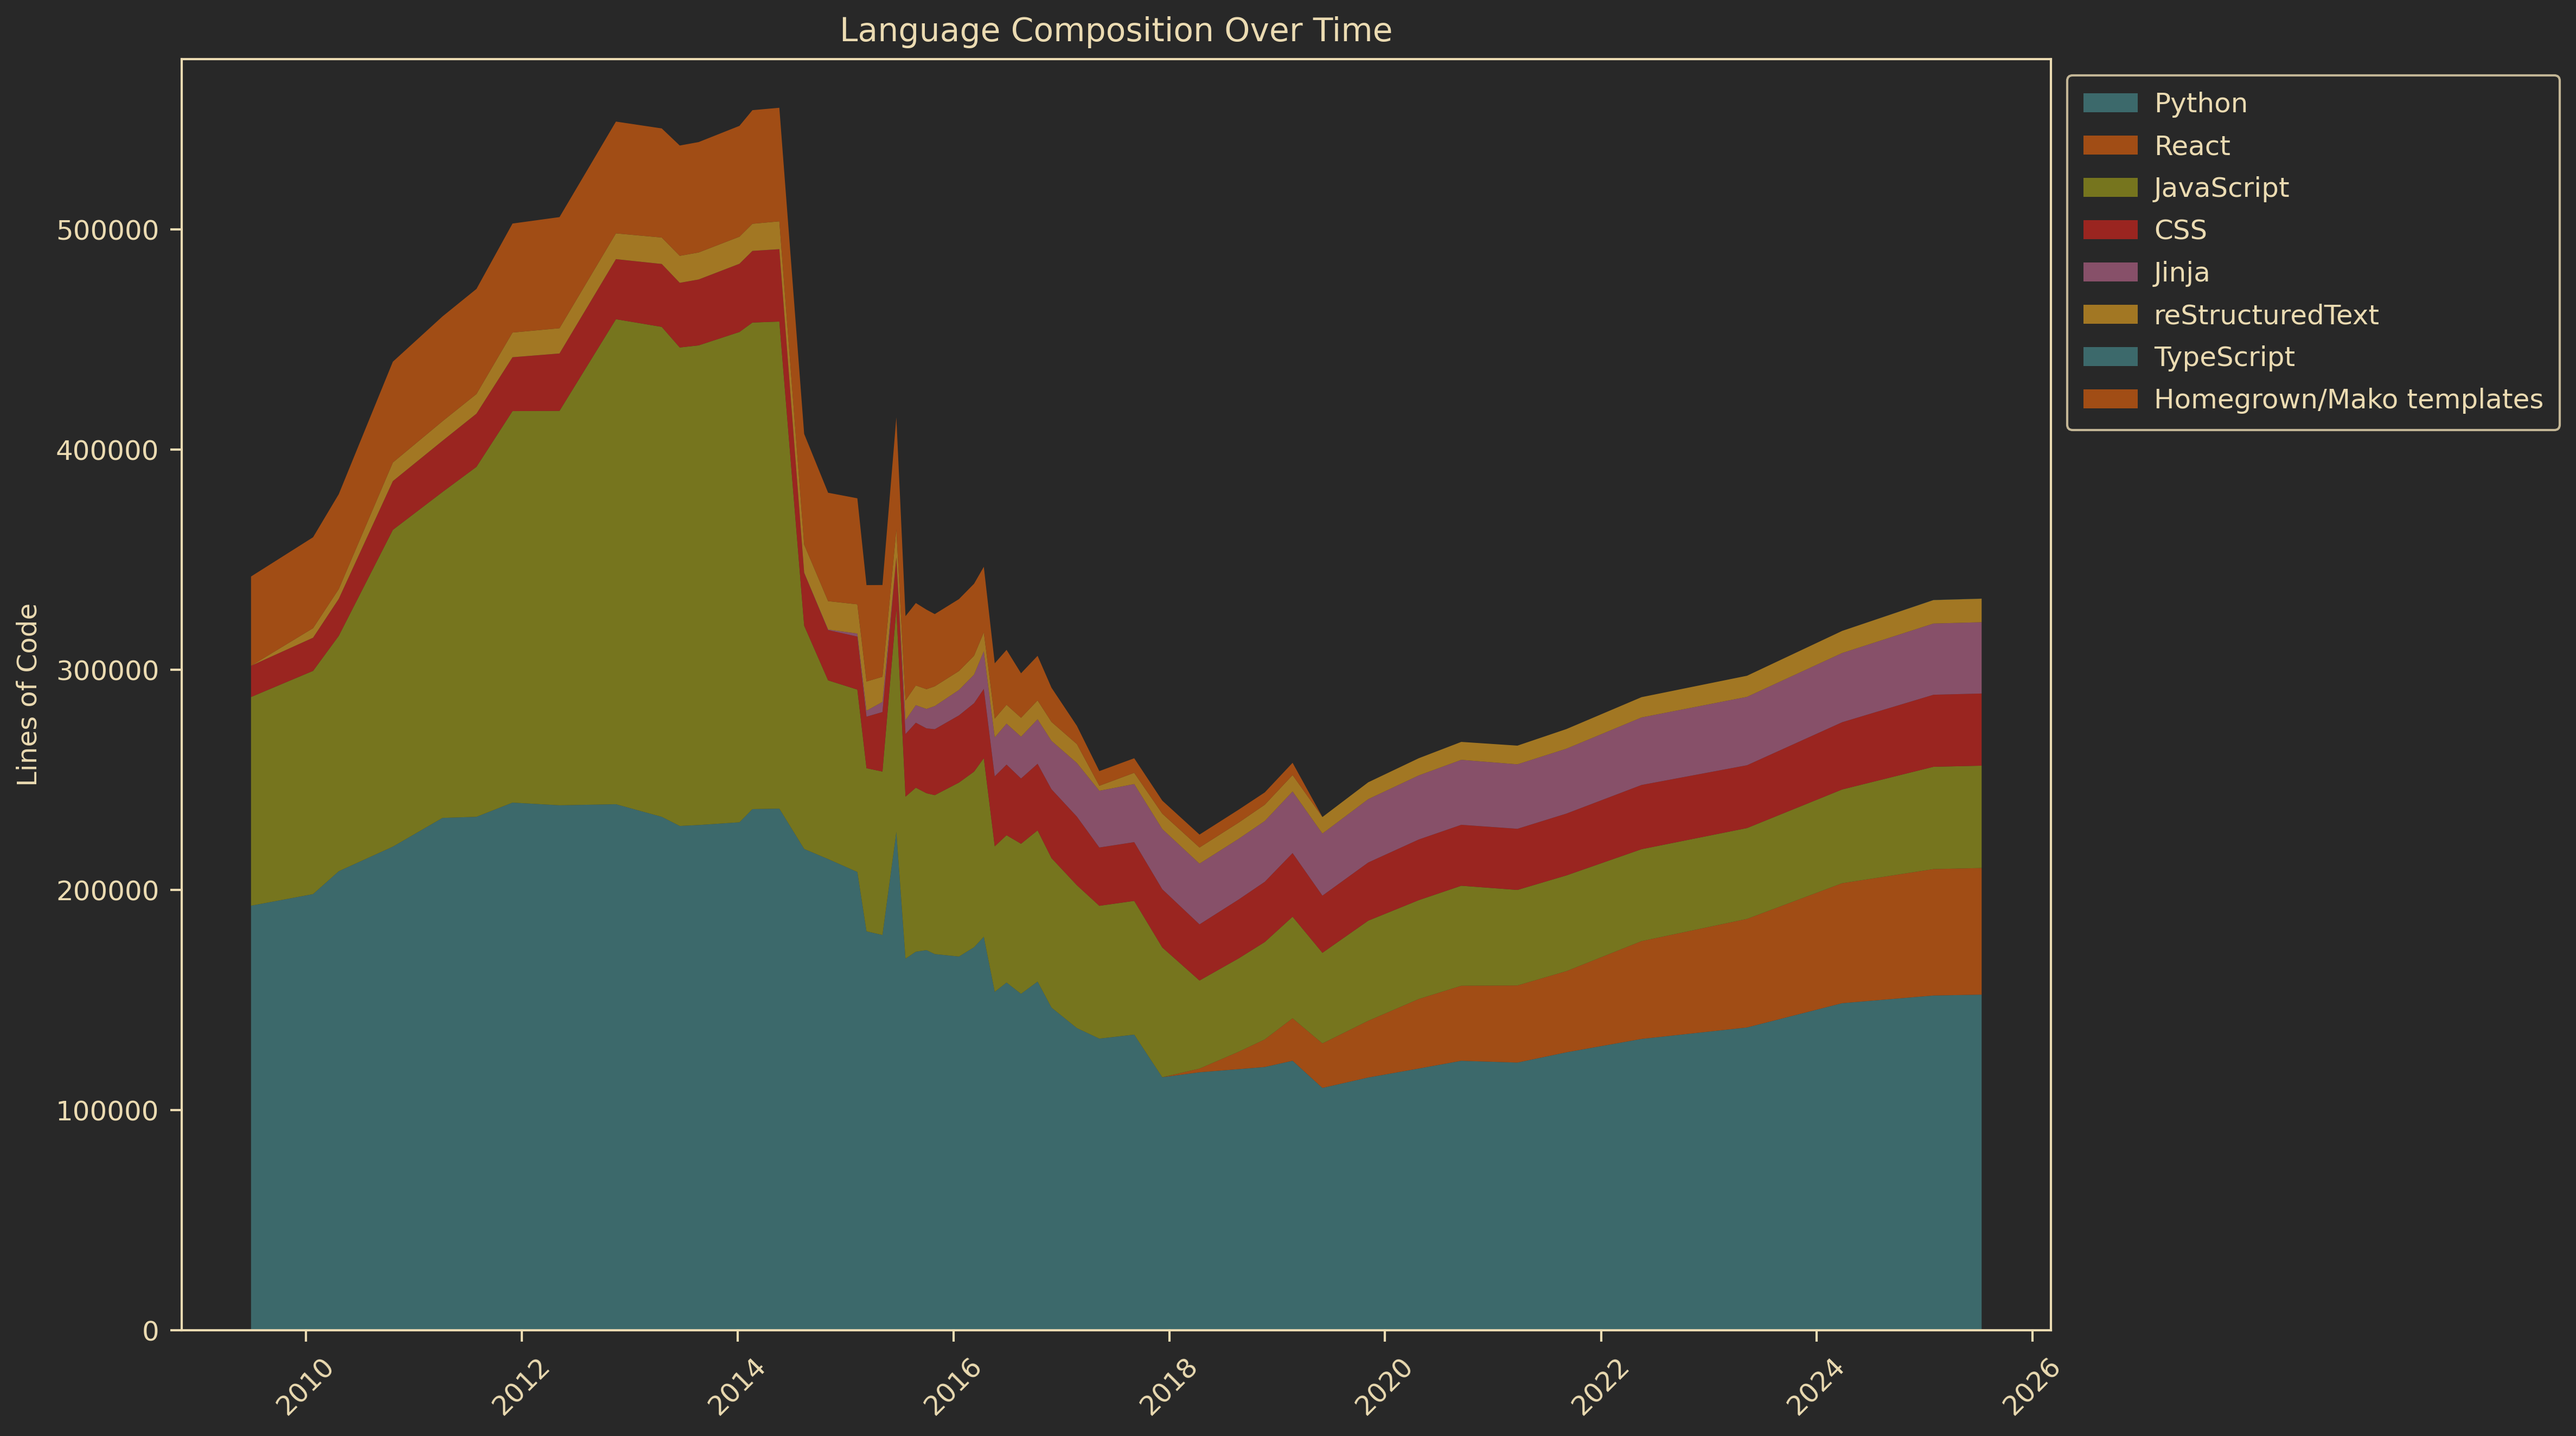
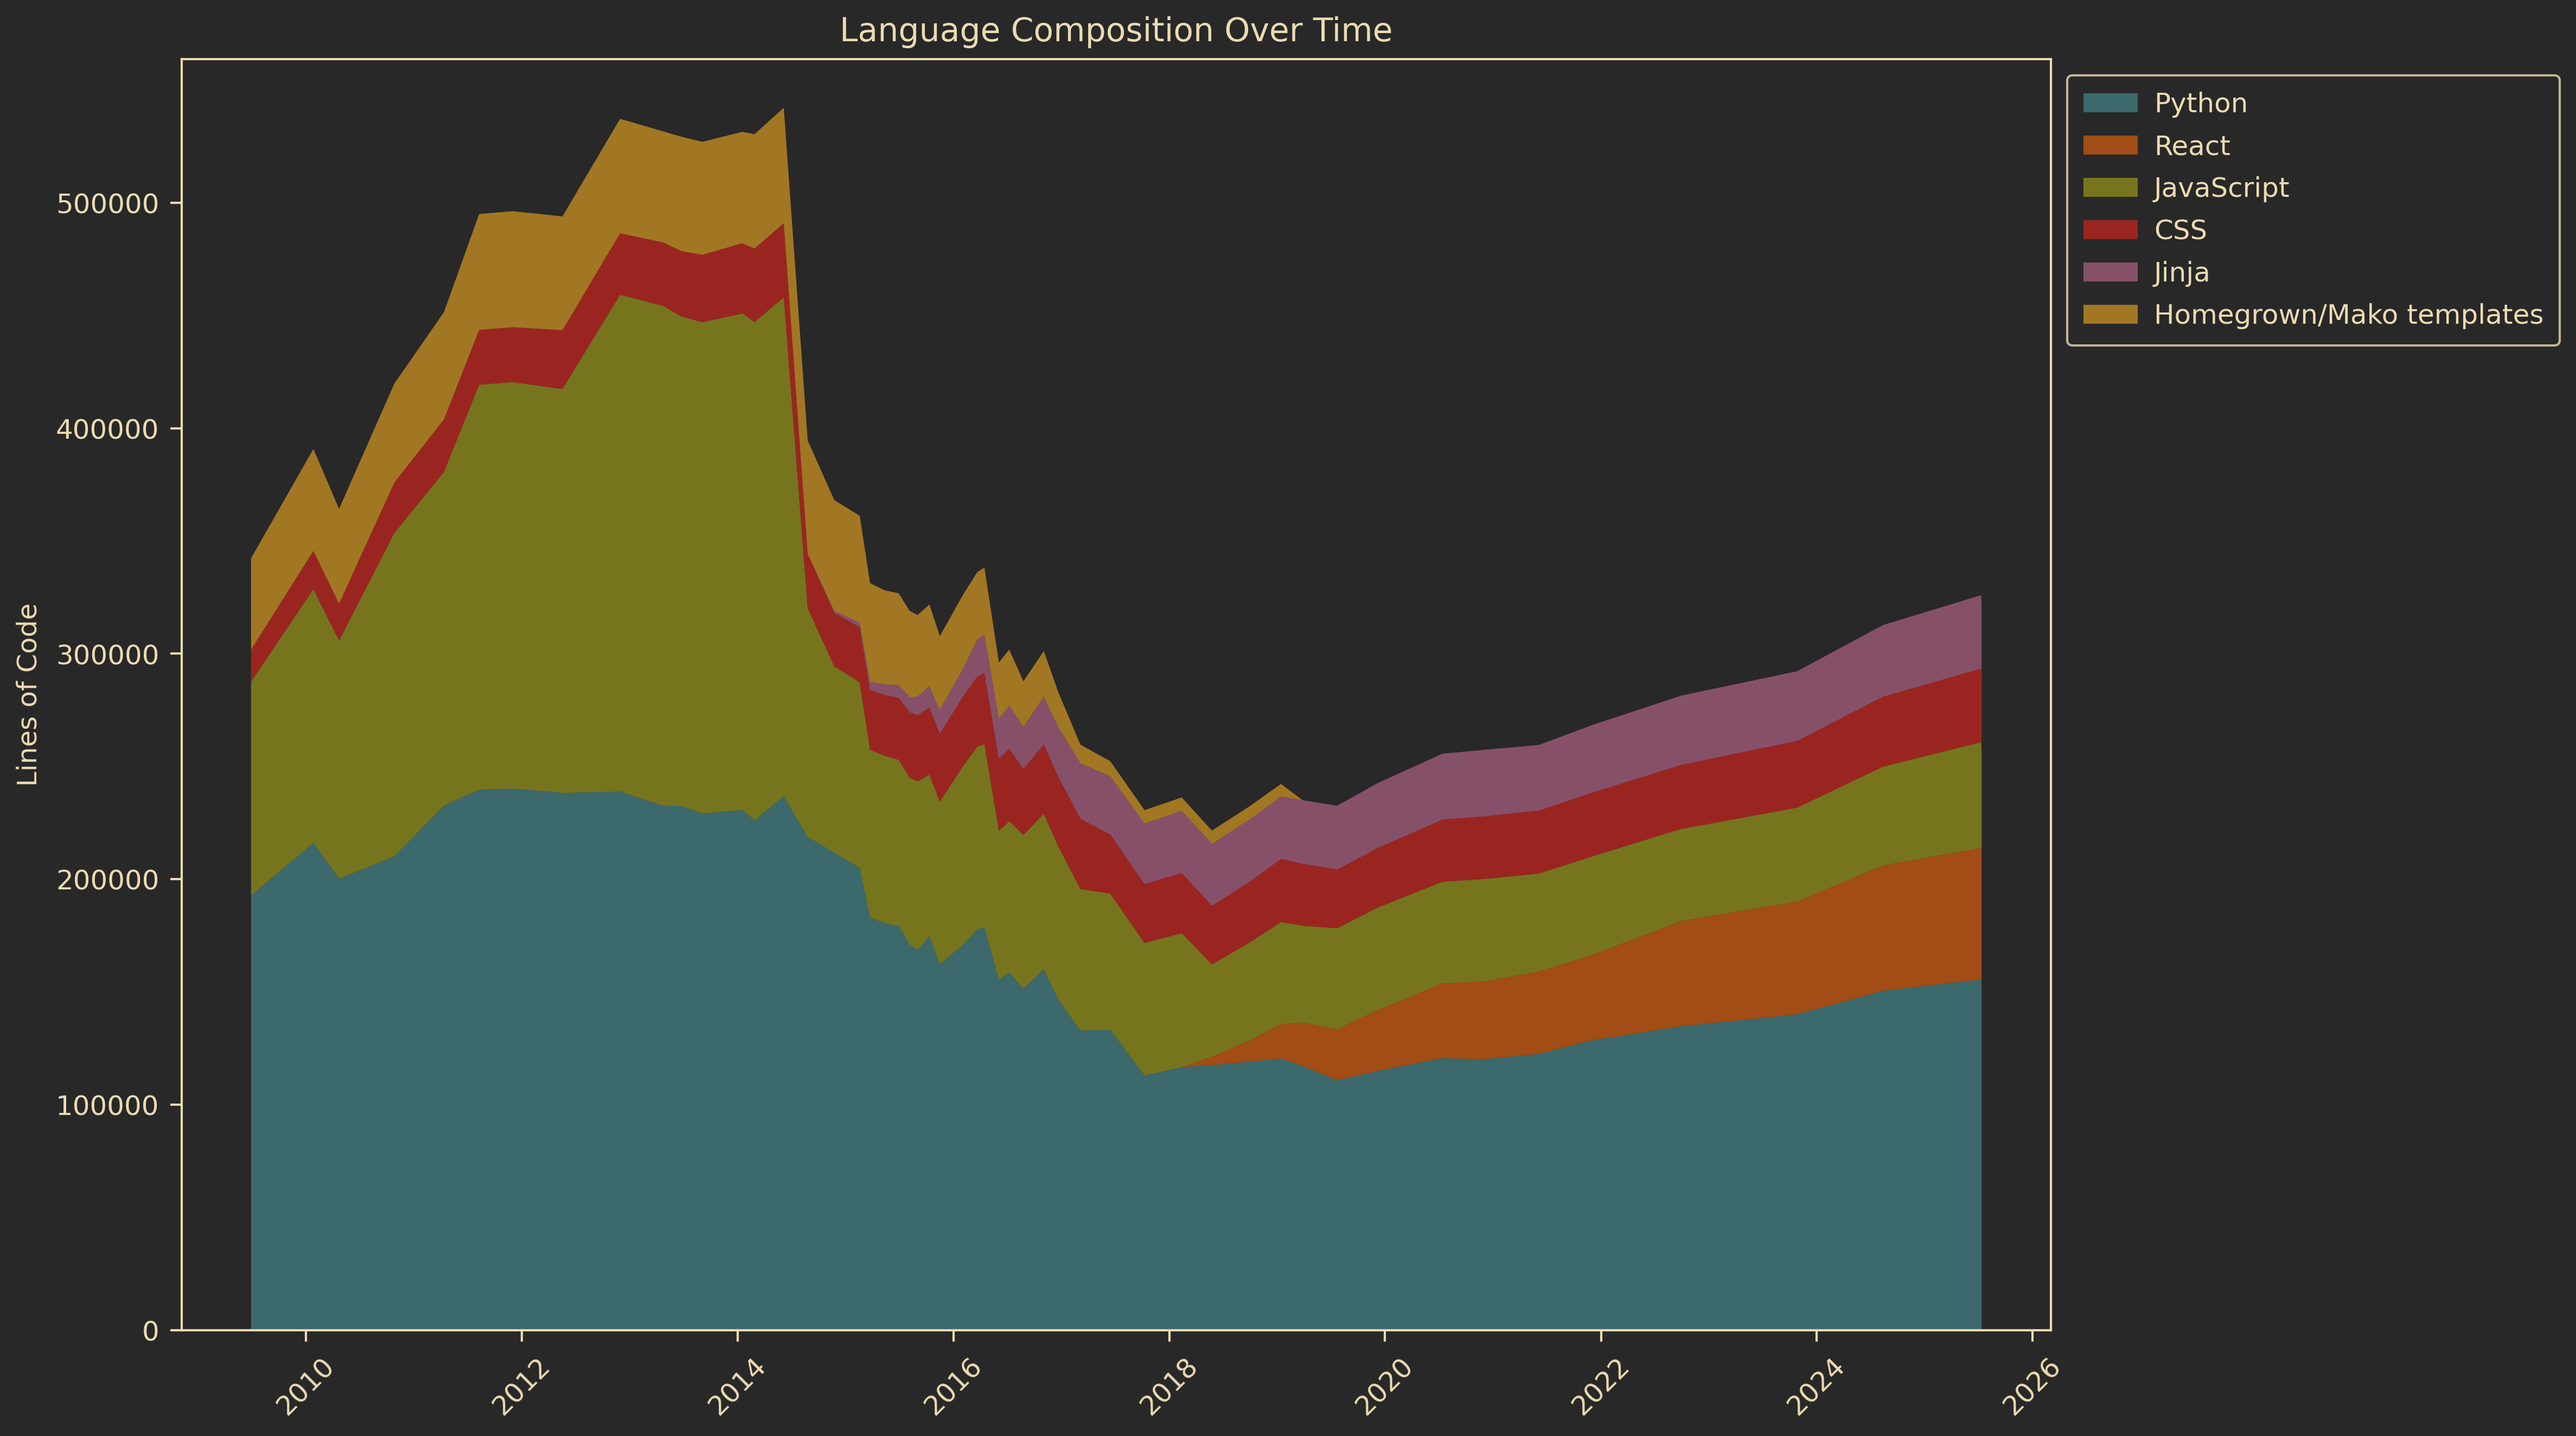
Finish up outro

diff --git a/stats/loc_analyzer.py b/stats/loc_analyzer.py
@@ -29,7 +29,7 @@ class GitLOCAnalyzer:
             # Programming languages
             "Python": [".py", ".pyx", ".pxd", ".pxi", ".pyw"],
             "JavaScript": [".js", ".mjs", ".cjs"],
-            "TypeScript": [".ts"],
+            # "TypeScript": [".ts"],
             "React": [".jsx", ".tsx"],
             # "PHP": [".php", ".php3", ".php4", ".php5", ".phtml"],
             # "Shell": [".sh", ".bash", ".zsh", ".fish", ".ksh"],
@@ -46,7 +46,7 @@ class GitLOCAnalyzer:
             # "SQL": [".sql"],
             # Documentation
             # "Markdown": [".md", ".markdown", ".mdown", ".mkd"],
-            "reStructuredText": [".rst"],
+            # "reStructuredText": [".rst"],
             # "LaTeX": [".tex", ".latex"],
             # Other
             # "Dockerfile": ["dockerfile", "Dockerfile"],

diff --git a/PITCHME.md b/PITCHME.md
@@ -576,15 +576,11 @@ This is a Python conference so of course we eventually switched to Python
 
 ---
 
-# The Story Hidden in the `Code`
+# Measuring Open Source Project Health
 
 ![bg contain right](assets/slides/stats/git.png)
 
-What skeletons are hiding in our git repo?
-
-https://chaoss.community
-
-- lots of different metrics
+What can we learn from our git repo?
 
 <!--
 Now that we’ve looked at what Indico is and how it works under the hood,
@@ -606,11 +602,13 @@ https://opensource.net/measure-open-source-project-health/
 
 ---
 
-# Metrics
+# [chaoss.community](https://chaoss.community)
 
 ![](assets/slides/stats/metrics.png)
 
 ---
+
+# Metrics
 
 * Code evolution (size, languages)
 * Technical debt and legacy code
@@ -618,8 +616,10 @@ https://opensource.net/measure-open-source-project-health/
 * Bus factor
 * Work-life balance
 
-Picked out some metrics which are very easy to measure (just need your git repo) but you
-can still valuable insights from them
+<!--
+Picked out some metrics which are relevant to us but also very easy to measure (just need your git repo) and you
+can still gain valuable insights from them
+-->
 
 ---
 
@@ -652,7 +652,15 @@ https://github.com/indico/indico/pull/6225/files
 
 # Dealing with Technical Debt & Legacy Code
 
-- Adding dependencies is easy, removing them is hard
+* How much legacy code do we have?
+* How often does the code change?
+* What are the modules that nobody wants to touch?
+
+<!-- 
+A project as old as Indico is bound to have some legacy code
+
+Adding dependencies is easy, removing them is hard
+-->
 
 ---
 
@@ -665,51 +673,16 @@ https://github.com/indico/indico/pull/6225/files
 - Every ~6 years Indico is rewritten
 - Ship of Theseus - Indico of 6 years ago is not the Indico of today
 - 6 years is a good number -> not too much code churn but at the same we're able to keep the codebase relatively modern
-
-Dealing with technical debt
-- Context matters -> Indico is a large and mature applications that has been around for 20 years and probably will be here in another 20
-- For such applications it's best to stick with proven and mature technologies as opposed to the hottest new framework
-- e.g. we're using flask despite there being arguably more modern frameworks these days
-- same for React, there are newer UI frameworks but we need to look 5/10/15 years in the future
-- at the same, pragmatism beats purity
-    - we still use jQuery in some parts, we'd like to get rid of it eventually but it works and the maintenance burden is low
  -->
 
 ![bg](assets/slides/stats/tech_debt.png)
-
-
-<!-- ---
-
-# Tests
-
----
-
-- Far from the likes of Sqlite which have 10x the test as source code
-- Clear upward movement
-
-- Most of our code tests backend (i.e. Python)
-- Used to have frontend tests based on Selenium
-- Huge pain to maintain
-
-https://github.com/indico/indico/commit/b1a3e14b90d16ad7883ed550081af54bdbb69bf8
-
-![bg contain](assets/slides/stats/test_ratio.png)
-
----
-
-- Nowadays we do manual testing
-- We always release new features to our users at CERN fFirst before making a public release
-- ~10k daily users are very good at finding bugs
-
-![bg contain](assets/slides/stats/prod.webp) -->
 
 ---
 
 # Contributors
 
-* Mainly developed by CERN
-* We are on GitHub
-* Lots of contributions from other organizations & individuals
+* Mainly developed by CERN, but..
+* We get lots of contributions from other organizations & individuals
 
 ---
 
@@ -811,15 +784,14 @@ What happens if the project lead gets hit by a bus or wins a lottery?
 
 * Single point of failure
 * Proxy for knowledge distribution within the team
-* What we're doing: encourage more prople to review code
 
 ![bg right contain](assets/slides/stats/busfactor.png)
 
 ---
 
 <!--
-- Recently the bus factor is strictly more than 1 which is not terrible
--
+- Started at 3 then 2 then 1 and recently we managed to get back to 2
+- We recognize that we could be doing better in terms of diffusing institutional knowledge across multiple team members
  -->
 
 ![bg contain](assets/slides/stats/bus_factor.png)
@@ -828,13 +800,16 @@ What happens if the project lead gets hit by a bus or wins a lottery?
 
 # Maintaining a healthy work-life balance
 
-* A bit specific
+* Pressure to respond to issues/PRs
+* Difficulty saying no to feature requests
 
 ---
 
 ![bg contain](assets/slides/stats/overtime_commits.png)
 
 <!--
+Doing good now but it wasn't always the case
+
 - Maintaining a healthy work-life balance can be difficult at times
 - We can get a good estimation of that by analyzing at what time code is committed throughout the day
 - The main graph shows how many commits were made outside the regular working hours (basically 9-5)
@@ -853,12 +828,6 @@ Reasons:
 
 ---
 
-<!-- This is what our senior colleagues look like when we mention 2015
-
-![bg contain](assets/slides/stats/vietnam.jpeg)
-
---- -->
-
 # To close it off..
 
 ![bg contain right](assets/slides/stats/indico_20.jpeg)
@@ -866,28 +835,18 @@ Reasons:
 <!--
 - Indico has been through many changes over the last (more than) two decades
 - We've switched languages, technologies and databases countless times
-
-- We started with PHP, no we're using Python
-- We started with MySQL then switched to ZODB and now we're using Postgres
-- We even have some JS from before jQuery existed but these days we all in on React and TypeScript
 - Who knows what we'll be using in 5, 10 years (going back to PHP? :D)
 
 - Indico's success would've have been hard to pull off without the support from the community
-- (It' been really great to see the growth of Indico and the community that formed around it)
-- And we are especially thankful to all the people that contributed in some shape or form/
+and everybody who contributed in any shape or form
 -->
 
 ---
 
 # Get involved!
 
-* [getindico.io](https://getindico.io)
-* [github.com/indico](github.com/indico)
-* [explore.transifex.com/indico/indico](https://explore.transifex.com/indico/indico/)
-
-`
-TODO: Add a slide with links to GitHub, Transifex, etc. and explain how they can get involved.
-`
+- Our GitHub ☛ [github.com/indico](github.com/indico)
+- Translations ☛ [explore.transifex.com/indico/indico](https://explore.transifex.com/indico/indico/)
 
 ---
 
